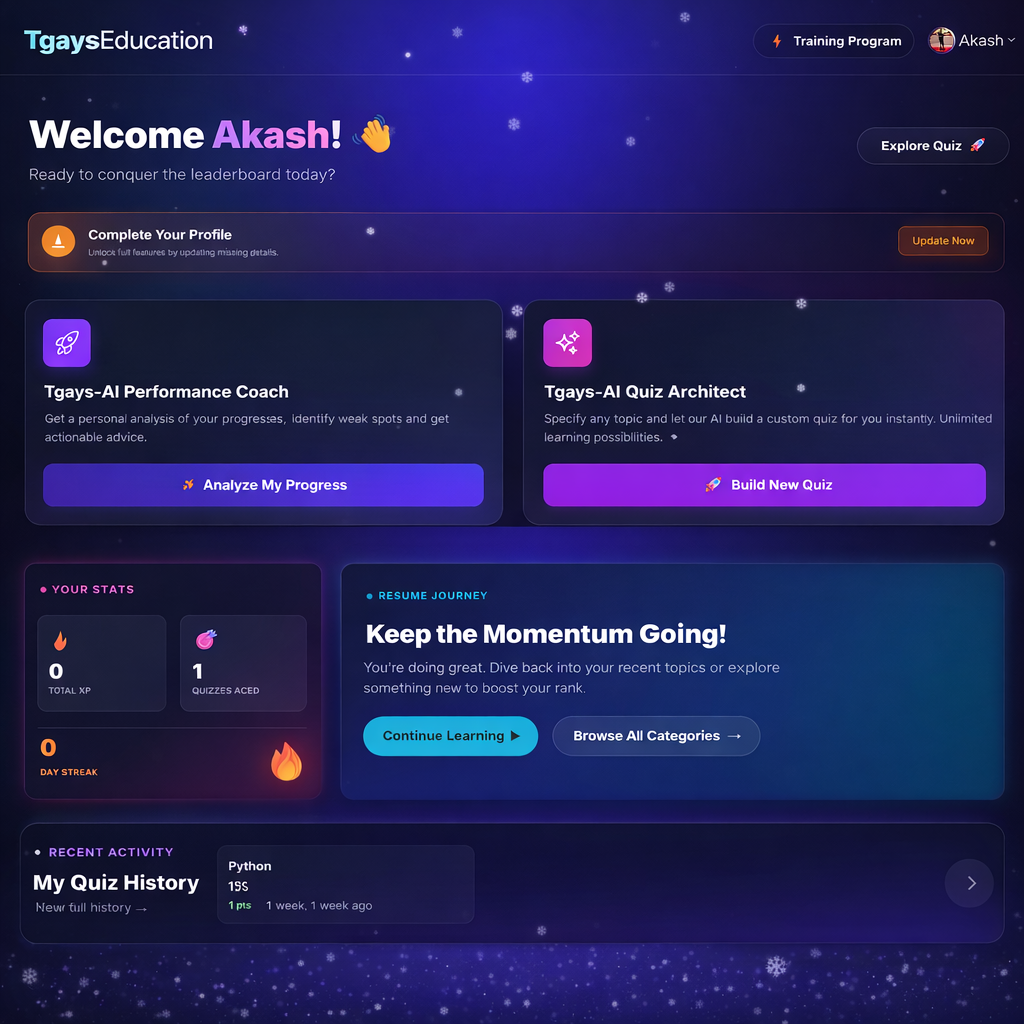
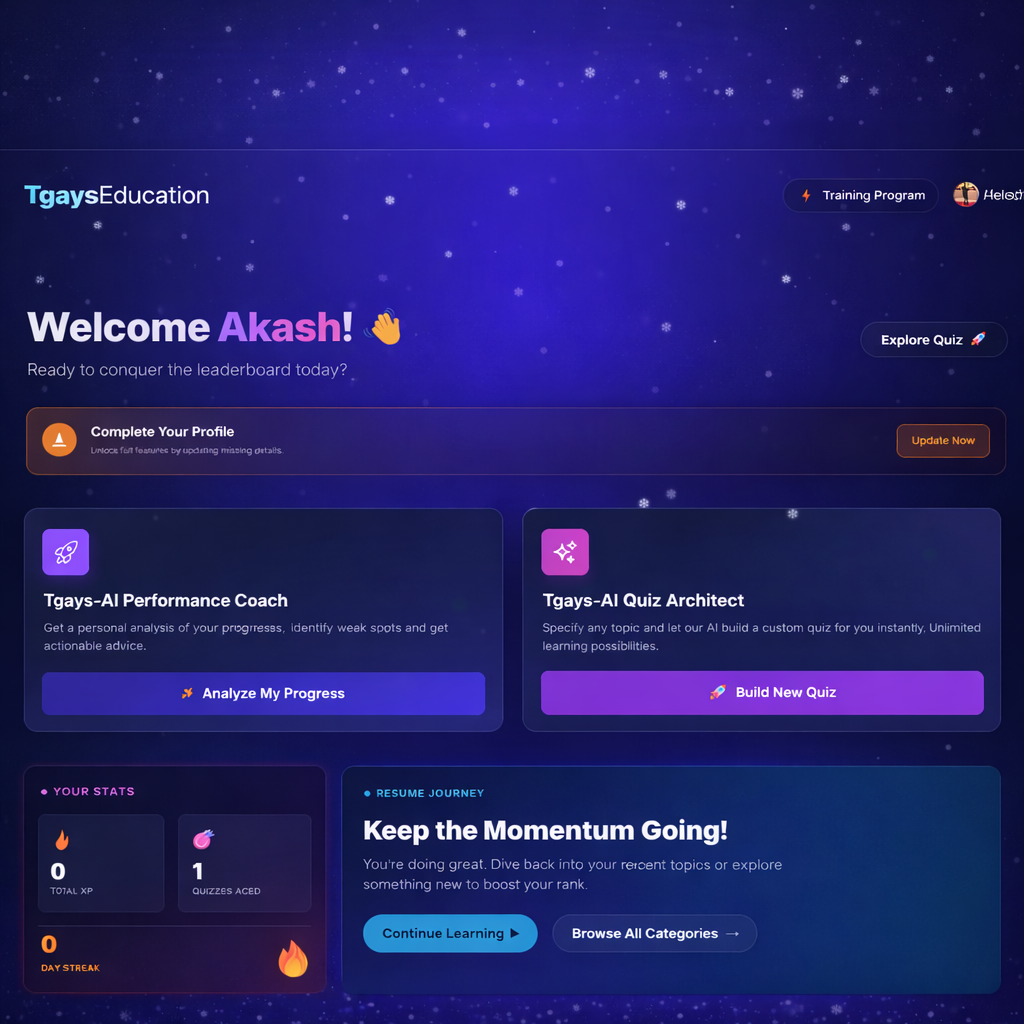
feat: improve payment form ui

diff --git a/src/app/_components/products/PaymentForm.jsx b/src/app/_components/products/PaymentForm.jsx
@@ -1,5 +1,8 @@
 "use client";
-import React, { useState, useRef } from 'react';
+import React, { useState, useRef, useEffect } from 'react';
+import { Package, Check } from 'lucide-react';
+import * as DropdownMenu from '@radix-ui/react-dropdown-menu';
+import { motion, AnimatePresence } from 'framer-motion';
 
 import PaymentStatusModal from './PaymentStatusModal';
 import styles from './PaymentForm.module.css';
@@ -7,6 +10,9 @@ import styles from './PaymentForm.module.css';
 const PaymentForm = ({ plan, isSupportChecked, setIsSupportChecked, totalAmount, displayTotal, selectedSubscription }) => {
     const [loading, setLoading] = useState(false);
     const [modalState, setModalState] = useState({ isOpen: false, type: 'success' });
+    const [pkgNames, setPkgNames] = useState([]);
+    const [selectedPkgForNote, setSelectedPkgForNote] = useState("");
+    const [isDropdownOpen, setIsDropdownOpen] = useState(false);
     
     // Form refs
     const nameRef = useRef(null);
@@ -20,6 +26,21 @@ const PaymentForm = ({ plan, isSupportChecked, setIsSupportChecked, totalAmount,
              window.location.reload(); // Reload after success modal closed
         }
     };
+
+    useEffect(() => {
+        const fetchPackages = async () => {
+            try {
+                const response = await fetch('https://lmsadmin.tgaystechnology.com/api/packages/');
+                if (response.ok) {
+                    const data = await response.json();
+                    setPkgNames(data.map(item => item.name));
+                }
+            } catch (err) {
+                console.error("Error fetching packages for footer dropdown:", err);
+            }
+        };
+        fetchPackages();
+    }, []);
 
     const [errors, setErrors] = useState({});
 
@@ -52,9 +73,8 @@ const PaymentForm = ({ plan, isSupportChecked, setIsSupportChecked, totalAmount,
                 email: email,
                 phone: phone,
                 note: description ? 
-                    `${plan?.title} ${selectedSubscription}.\n${description}` : 
-                    `${plan?.title} ${selectedSubscription}`
-                    // `${description}` : ``
+                    `${plan?.title} ${selectedSubscription}.\nPackage: ${selectedPkgForNote}\n${description}` : 
+                    `${plan?.title} ${selectedSubscription}.\nPackage: ${selectedPkgForNote}`
             };
 
 
@@ -167,6 +187,55 @@ const PaymentForm = ({ plan, isSupportChecked, setIsSupportChecked, totalAmount,
                 
                  {/* Footer Button Area */}
                   <div className={styles.footer}>
+                    <DropdownMenu.Root open={isDropdownOpen} onOpenChange={setIsDropdownOpen}>
+                        <DropdownMenu.Trigger asChild>
+                            <div className={styles.pkgDropdownContainer} role="button" aria-label="Select Subscription Package">
+                                <Package className={styles.pkgIcon} />
+                            </div>
+                        </DropdownMenu.Trigger>
+
+                        <AnimatePresence>
+                            {isDropdownOpen && (
+                                <DropdownMenu.Portal forceMount>
+                                    <DropdownMenu.Content 
+                                        asChild 
+                                        sideOffset={8} 
+                                        align="start"
+                                        className={styles.dropdownContent}
+                                    >
+                                        <motion.div
+                                            initial={{ opacity: 0, scale: 0.95, y: -10 }}
+                                            animate={{ opacity: 1, scale: 1, y: 0 }}
+                                            exit={{ opacity: 0, scale: 0.95, y: -10 }}
+                                            transition={{ duration: 0.2, ease: "easeOut" }}
+                                        >
+                                            <DropdownMenu.Label className={styles.dropdownLabel}>
+                                                Choose Package
+                                            </DropdownMenu.Label>
+                                            
+                                            <DropdownMenu.RadioGroup 
+                                                value={selectedPkgForNote} 
+                                                onValueChange={setSelectedPkgForNote}
+                                            >
+                                                {pkgNames.map((pkg, idx) => (
+                                                    <DropdownMenu.RadioItem 
+                                                        key={idx} 
+                                                        value={pkg}
+                                                        className={styles.dropdownItem}
+                                                    >
+                                                        <span className={styles.itemText}>{pkg}</span>
+                                                        <DropdownMenu.ItemIndicator>
+                                                            <Check className={styles.checkIcon} />
+                                                        </DropdownMenu.ItemIndicator>
+                                                    </DropdownMenu.RadioItem>
+                                                ))}
+                                            </DropdownMenu.RadioGroup>
+                                        </motion.div>
+                                    </DropdownMenu.Content>
+                                </DropdownMenu.Portal>
+                            )}
+                        </AnimatePresence>
+                    </DropdownMenu.Root>
                     <button 
                         type="submit"
                         disabled={loading}

diff --git a/src/app/_components/products/PaymentForm.module.css b/src/app/_components/products/PaymentForm.module.css
@@ -44,19 +44,23 @@
   box-shadow: 0 0 0 1px #ef4444;
 }
 
-/* .footer {
-  padding-top: 1.5rem;
-} */
+.footer {
+  display: flex;
+  gap: 0.75rem;
+  align-items: center;
+  width: 100%;
+}
 
 .submitBtn {
-  width: 100%;
-  padding: 1rem;
+  flex: 1;
+  height: 3.5rem;
+  padding: 0 1rem;
   color: #ffffff;
   background-color: #0F111A;
   border: none;
   border-radius: 0.75rem;
   font-weight: 500;
-  font-size: 1.25rem;
+  font-size: 1.125rem;
   cursor: pointer;
   transition: all 200ms ease-in-out;
   display: flex;
@@ -103,4 +107,97 @@
 
 .spinnerPath {
   opacity: 0.75;
+}
+
+.pkgDropdownContainer {
+  position: relative;
+  width: 3.5rem;
+  height: 3.5rem;
+  display: flex;
+  justify-content: center;
+  align-items: center;
+  background-color: #f8fafc;
+  border: 1px solid #e2e8f0;
+  border-radius: 0.75rem;
+  flex-shrink: 0;
+  cursor: pointer;
+  transition: all 150ms ease-in-out;
+  outline: none;
+}
+
+.pkgDropdownContainer:hover,
+.pkgDropdownContainer[data-state='open'] {
+  background-color: #f1f5f9;
+  border-color: #94a3b8;
+}
+
+.pkgDropdownContainer:focus-visible {
+  border-color: #000;
+  box-shadow: 0 0 0 1px #000;
+}
+
+.pkgIcon {
+  width: 1.5rem;
+  height: 1.5rem;
+  color: #64748b;
+}
+
+.dropdownContent {
+  min-width: 200px;
+  background-color: #ffffff;
+  border-radius: 1rem;
+  padding: 0.5rem;
+  box-shadow: 0 10px 25px -5px rgba(0, 0, 0, 0.1), 0 8px 10px -6px rgba(0, 0, 0, 0.1);
+  border: 1px solid #e2e8f0;
+  z-index: 1000;
+  pointer-events: auto;
+}
+
+.dropdownLabel {
+  padding: 0.5rem 0.75rem;
+  font-size: 0.75rem;
+  font-weight: 600;
+  color: #94a3b8;
+  text-transform: uppercase;
+  letter-spacing: 0.05em;
+}
+
+.dropdownItem {
+  display: flex;
+  align-items: center;
+  justify-content: space-between;
+  padding: 0.75rem 1rem;
+  font-size: 0.9375rem;
+  color: #1e293b;
+  cursor: pointer;
+  border-radius: 0.625rem;
+  outline: none;
+  transition: all 150ms ease;
+  user-select: none;
+}
+
+.dropdownItem:hover,
+.dropdownItem[data-highlighted] {
+  background-color: #f8fafc;
+  color: #000;
+}
+
+.dropdownItem[data-state='checked'] {
+  background-color: #f1f5f9;
+  font-weight: 500;
+  color: #000;
+}
+
+.checkIcon {
+  width: 1rem;
+  height: 1rem;
+  color: #000;
+}
+
+@media (max-width: 480px) {
+  .footer {
+    display: flex;
+    flex-direction: row;
+    gap: 0.75rem;
+  }
 }
